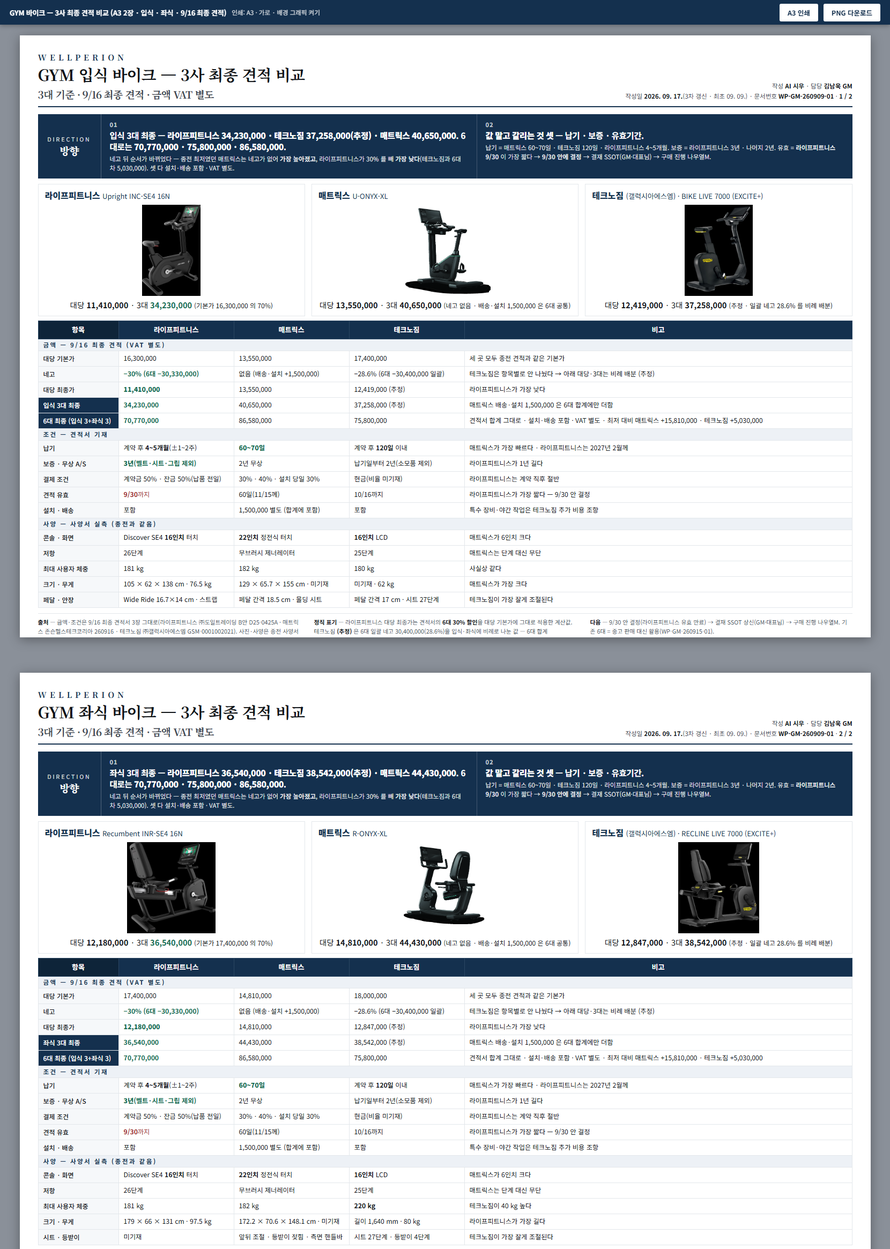
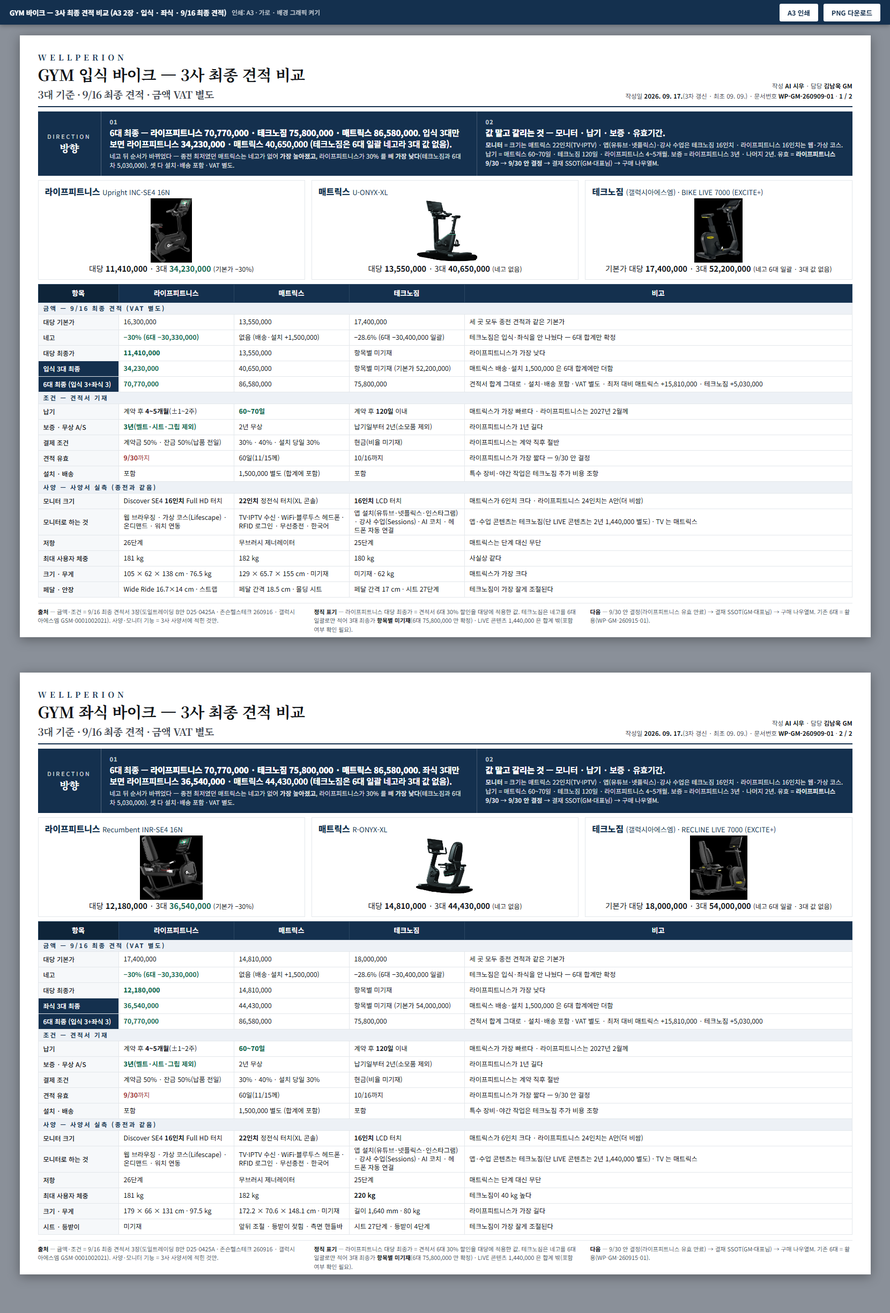
[시우] 바이크 3사 최종 견적 A3 — 추정값 제거(테크노짐 3대는 항목별 미기재 · 6대만 확정) · 모니터 크기·기능 2행 + 방향에 모니터 (GM 지적 2026-09-17)

diff --git a/3. 웰페리온 가이드/coo/chairman/260909_GYM바이크_3사비교_A3.html b/3. 웰페리온 가이드/coo/chairman/260909_GYM바이크_3사비교_A3.html
@@ -130,29 +130,29 @@
     </div>
   </div>
 
-  <div class="ask">
+  <div class="ask" style="margin-top:8px">
     <div class="lb"><span>DIRECTION</span><strong>방향</strong></div>
     <div class="items">
-      <div class="it"><div class="n">01</div><div><div class="q">입식 3대 최종 — <b>라이프피트니스 34,230,000 · 테크노짐 37,258,000(추정) · 매트릭스 40,650,000</b>. 6대로는 <b>70,770,000 · 75,800,000 · 86,580,000</b>.</div><div class="d">네고 뒤 순서가 바뀌었다 — 종전 최저였던 매트릭스는 네고가 없어 <b>가장 높아졌고</b>, 라이프피트니스가 30% 를 빼 <b>가장 낮다</b>(테크노짐과 6대 차 5,030,000). 셋 다 설치·배송 포함 · VAT 별도.</div></div></div>
-      <div class="it"><div class="n">02</div><div><div class="q"><b>값 말고 갈리는 것 셋</b> — 납기 · 보증 · 유효기간.</div><div class="d">납기 = 매트릭스 60~70일 · 테크노짐 120일 · 라이프피트니스 4~5개월. 보증 = 라이프피트니스 3년 · 나머지 2년. 유효 = <b>라이프피트니스 9/30</b> 이 가장 짧다 → <b>9/30 안에 결정</b> → 결재 SSOT(GM·대표님) → 구매 진행 나우열M.</div></div></div>
+      <div class="it"><div class="n">01</div><div><div class="q">6대 최종 — <b>라이프피트니스 70,770,000 · 테크노짐 75,800,000 · 매트릭스 86,580,000</b>. 입식 3대만 보면 라이프피트니스 <b>34,230,000</b> · 매트릭스 40,650,000 (테크노짐은 6대 일괄 네고라 3대 값 없음).</div><div class="d">네고 뒤 순서가 바뀌었다 — 종전 최저였던 매트릭스는 네고가 없어 <b>가장 높아졌고</b>, 라이프피트니스가 30% 를 빼 <b>가장 낮다</b>(테크노짐과 6대 차 5,030,000). 셋 다 설치·배송 포함 · VAT 별도.</div></div></div>
+      <div class="it"><div class="n">02</div><div><div class="q"><b>값 말고 갈리는 것</b> — 모니터 · 납기 · 보증 · 유효기간.</div><div class="d"><b>모니터</b> = 크기는 매트릭스 22인치(TV·IPTV) · 앱(유튜브·넷플릭스)·강사 수업은 테크노짐 16인치 · 라이프피트니스 16인치는 웹·가상 코스. 납기 = 매트릭스 60~70일 · 테크노짐 120일 · 라이프피트니스 4~5개월. 보증 = 라이프피트니스 3년 · 나머지 2년. 유효 = <b>라이프피트니스 9/30</b> → <b>9/30 안 결정</b> → 결재 SSOT(GM·대표님) → 구매 나우열M.</div></div></div>
     </div>
   </div>
 
-  <div style="display:flex; gap:12px; margin-top:10px; height:250px">
+  <div style="display:flex; gap:12px; margin-top:8px; height:186px">
       <div style="flex:1; min-width:0; border:1px solid var(--line); padding:8px 12px 10px; display:flex; flex-direction:column">
         <div style="font-weight:800; font-size:16px; color:var(--navy)">라이프피트니스 <span style="font-weight:400; color:var(--dim); font-size:13px">Upright INC-SE4 16N</span></div>
-        <div style="flex:1; min-height:0; display:flex; align-items:center; justify-content:center; margin:6px 0"><img src="assets/bike/lf_p3_3.png" alt="라이프피트니스" style="max-width:100%; max-height:170px; object-fit:contain"></div>
-        <div style="text-align:center; font-size:14.5px">대당 <b>11,410,000</b> · 3대 <b class="good">34,230,000</b> <span style="color:var(--dim);font-size:12px">(기본가 16,300,000 의 70%)</span></div>
+        <div style="flex:1; min-height:0; display:flex; align-items:center; justify-content:center; margin:6px 0"><img src="assets/bike/lf_p3_3.png" alt="라이프피트니스" style="max-width:100%; max-height:120px; object-fit:contain"></div>
+        <div style="text-align:center; font-size:14.5px">대당 <b>11,410,000</b> · 3대 <b class="good">34,230,000</b> <span style="color:var(--dim);font-size:12px">(기본가 −30%)</span></div>
       </div>
       <div style="flex:1; min-width:0; border:1px solid var(--line); padding:8px 12px 10px; display:flex; flex-direction:column">
         <div style="font-weight:800; font-size:16px; color:var(--navy)">매트릭스 <span style="font-weight:400; color:var(--dim); font-size:13px">U-ONYX-XL</span></div>
-        <div style="flex:1; min-height:0; display:flex; align-items:center; justify-content:center; margin:6px 0"><img src="assets/bike/matrix_p7_6.png" alt="매트릭스" style="max-width:100%; max-height:170px; object-fit:contain"></div>
-        <div style="text-align:center; font-size:14.5px">대당 <b>13,550,000</b> · 3대 <b>40,650,000</b> <span style="color:var(--dim);font-size:12px">(네고 없음 · 배송·설치 1,500,000 은 6대 공통)</span></div>
+        <div style="flex:1; min-height:0; display:flex; align-items:center; justify-content:center; margin:6px 0"><img src="assets/bike/matrix_p7_6.png" alt="매트릭스" style="max-width:100%; max-height:120px; object-fit:contain"></div>
+        <div style="text-align:center; font-size:14.5px">대당 <b>13,550,000</b> · 3대 <b>40,650,000</b> <span style="color:var(--dim);font-size:12px">(네고 없음)</span></div>
       </div>
       <div style="flex:1; min-width:0; border:1px solid var(--line); padding:8px 12px 10px; display:flex; flex-direction:column">
         <div style="font-weight:800; font-size:16px; color:var(--navy)">테크노짐 <span style="font-weight:400; color:var(--dim); font-size:13px">(갤럭시아에스엠) · BIKE LIVE 7000 (EXCITE+)</span></div>
-        <div style="flex:1; min-height:0; display:flex; align-items:center; justify-content:center; margin:6px 0"><img src="assets/bike/techno_p3_7.png" alt="테크노짐" style="max-width:100%; max-height:170px; object-fit:contain"></div>
-        <div style="text-align:center; font-size:14.5px">대당 <b>12,419,000</b> · 3대 <b>37,258,000</b> <span style="color:var(--dim);font-size:12px">(추정 · 일괄 네고 28.6% 를 비례 배분)</span></div>
+        <div style="flex:1; min-height:0; display:flex; align-items:center; justify-content:center; margin:6px 0"><img src="assets/bike/techno_p3_7.png" alt="테크노짐" style="max-width:100%; max-height:120px; object-fit:contain"></div>
+        <div style="text-align:center; font-size:14.5px">기본가 대당 <b>17,400,000</b> · 3대 <b>52,200,000</b> <span style="color:var(--dim);font-size:12px">(네고 6대 일괄 · 3대 값 없음)</span></div>
       </div>
   </div>
 
@@ -162,9 +162,9 @@
       <tbody>
         <tr class="grp"><td colspan="5">금액 — 9/16 최종 견적 (VAT 별도)</td></tr>
         <tr><td class="k">대당 기본가</td><td class="c">16,300,000</td><td class="c">13,550,000</td><td class="c">17,400,000</td><td>세 곳 모두 종전 견적과 같은 기본가</td></tr>
-        <tr><td class="k">네고</td><td class="c good">−30% (6대 −30,330,000)</td><td class="c">없음 (배송·설치 +1,500,000)</td><td class="c">−28.6% (6대 −30,400,000 일괄)</td><td>테크노짐은 항목별로 안 나눴다 → 아래 대당·3대는 비례 배분 (추정)</td></tr>
-        <tr><td class="k">대당 최종가</td><td class="c good"><b>11,410,000</b></td><td class="c">13,550,000</td><td class="c">12,419,000 (추정)</td><td>라이프피트니스가 가장 낮다</td></tr>
-        <tr class="total"><td class="k" style="background:var(--navy);color:#fff">입식 3대 최종</td><td class="n good">34,230,000</td><td class="n">40,650,000</td><td class="n">37,258,000 (추정)</td><td>매트릭스 배송·설치 1,500,000 은 6대 합계에만 더함</td></tr>
+        <tr><td class="k">네고</td><td class="c good">−30% (6대 −30,330,000)</td><td class="c">없음 (배송·설치 +1,500,000)</td><td class="c">−28.6% (6대 −30,400,000 일괄)</td><td>테크노짐은 입식·좌식을 안 나눴다 — 6대 합계만 확정</td></tr>
+        <tr><td class="k">대당 최종가</td><td class="c good"><b>11,410,000</b></td><td class="c">13,550,000</td><td class="c">항목별 미기재</td><td>라이프피트니스가 가장 낮다</td></tr>
+        <tr class="total"><td class="k" style="background:var(--navy);color:#fff">입식 3대 최종</td><td class="n good">34,230,000</td><td class="n">40,650,000</td><td class="n">항목별 미기재 (기본가 52,200,000)</td><td>매트릭스 배송·설치 1,500,000 은 6대 합계에만 더함</td></tr>
         <tr class="total"><td class="k" style="background:var(--navy);color:#fff">6대 최종 (입식 3+좌식 3)</td><td class="n good">70,770,000</td><td class="n">86,580,000</td><td class="n">75,800,000</td><td>견적서 합계 그대로 · 설치·배송 포함 · VAT 별도 · 최저 대비 매트릭스 +15,810,000 · 테크노짐 +5,030,000</td></tr>
         <tr class="grp"><td colspan="5">조건 — 견적서 기재</td></tr>
         <tr><td class="k">납기</td><td class="c">계약 후 <b>4~5개월</b>(±1~2주)</td><td class="c good"><b>60~70일</b></td><td class="c">계약 후 <b>120일</b> 이내</td><td>매트릭스가 가장 빠르다 · 라이프피트니스는 2027년 2월께</td></tr>
@@ -173,15 +173,15 @@
         <tr><td class="k">견적 유효</td><td class="c" style="color:#9E2A2A"><b>9/30</b>까지</td><td class="c">60일(11/15께)</td><td class="c">10/16까지</td><td>라이프피트니스가 가장 짧다 — 9/30 안 결정</td></tr>
         <tr><td class="k">설치 · 배송</td><td class="c">포함</td><td class="c">1,500,000 별도 (합계에 포함)</td><td class="c">포함</td><td>특수 장비·야간 작업은 테크노짐 추가 비용 조항</td></tr>
         <tr class="grp"><td colspan="5">사양 — 사양서 실측 (종전과 같음)</td></tr>
-        <tr><td class="k">콘솔 · 화면</td><td class="c">Discover SE4 <b>16인치</b> 터치</td><td class="c"><b>22인치</b> 정전식 터치</td><td class="c"><b>16인치</b> LCD</td><td>매트릭스가 6인치 크다</td></tr><tr><td class="k">저항</td><td class="c">26단계</td><td class="c">무브러시 제너레이터</td><td class="c">25단계</td><td>매트릭스는 단계 대신 무단</td></tr><tr><td class="k">최대 사용자 체중</td><td class="c">181 kg</td><td class="c">182 kg</td><td class="c">180 kg</td><td>사실상 같다</td></tr><tr><td class="k">크기 · 무게</td><td class="c">105 × 62 × 138 cm · 76.5 kg</td><td class="c">129 × 65.7 × 155 cm · 미기재</td><td class="c">미기재 · 62 kg</td><td>매트릭스가 가장 크다</td></tr><tr><td class="k">페달 · 안장</td><td class="c">Wide Ride 16.7×14 cm · 스트랩</td><td class="c">페달 간격 18.5 cm · 몰딩 시트</td><td class="c">페달 간격 17 cm · 시트 27단계</td><td>테크노짐이 가장 잘게 조절된다</td></tr>
+        <tr><td class="k">모니터 크기</td><td class="c">Discover SE4 <b>16인치</b> Full HD 터치</td><td class="c"><b>22인치</b> 정전식 터치(XL 콘솔)</td><td class="c"><b>16인치</b> LCD 터치</td><td>매트릭스가 6인치 크다 · 라이프피트니스 24인치는 A안(더 비쌈)</td></tr><tr><td class="k">모니터로 하는 것</td><td class="c">웹 브라우징 · 가상 코스(Lifescape) · 온디맨드 · 워치 연동</td><td class="c">TV·IPTV 수신 · WiFi·블루투스 헤드폰 · RFID 로그인 · 무선충전 · 한국어</td><td class="c">앱 설치(유튜브·넷플릭스·인스타그램) · 강사 수업(Sessions) · AI 코치 · 헤드폰 자동 연결</td><td>앱·수업 콘텐츠는 테크노짐(단 LIVE 콘텐츠는 2년 1,440,000 별도) · TV 는 매트릭스</td></tr><tr><td class="k">저항</td><td class="c">26단계</td><td class="c">무브러시 제너레이터</td><td class="c">25단계</td><td>매트릭스는 단계 대신 무단</td></tr><tr><td class="k">최대 사용자 체중</td><td class="c">181 kg</td><td class="c">182 kg</td><td class="c">180 kg</td><td>사실상 같다</td></tr><tr><td class="k">크기 · 무게</td><td class="c">105 × 62 × 138 cm · 76.5 kg</td><td class="c">129 × 65.7 × 155 cm · 미기재</td><td class="c">미기재 · 62 kg</td><td>매트릭스가 가장 크다</td></tr><tr><td class="k">페달 · 안장</td><td class="c">Wide Ride 16.7×14 cm · 스트랩</td><td class="c">페달 간격 18.5 cm · 몰딩 시트</td><td class="c">페달 간격 17 cm · 시트 27단계</td><td>테크노짐이 가장 잘게 조절된다</td></tr>
       </tbody>
     </table>
   </div>
 
   <div class="foot">
-    <div><b>출처</b> — 금액·조건은 9/16 최종 견적서 3장 그대로(라이프피트니스 ㈜도일트레이딩 B안 D25-0425A · 매트릭스 존슨헬스테크코리아 260916 · 테크노짐 ㈜갤럭시아에스엠 GSM-0001002021). 사진·사양은 종전 사양서 PDF.</div>
-    <div><b>정직 표기</b> — 라이프피트니스 대당 최종가는 견적서의 <b>6대 30% 할인</b>을 대당 기본가에 그대로 적용한 계산값. 테크노짐 <b>(추정)</b> 은 6대 일괄 네고 30,400,000(28.6%)을 입식·좌식에 비례로 나눈 값 — 6대 합계 75,800,000 만 확정. 테크노짐 견적엔 LIVE PREMIUM CONTENT 1,440,000(6대×2년)이 별도 줄로 있고 합계엔 안 들어 있다(포함 여부 확인 필요).</div>
-    <div><b>다음</b> — 9/30 안 결정(라이프피트니스 유효 만료) → 결재 SSOT 상신(GM·대표님) → 구매 진행 나우열M. 기존 6대 = 중고 판매 대신 활용(WP-GM-260915-01).</div>
+    <div><b>출처</b> — 금액·조건 = 9/16 최종 견적서 3장(도일트레이딩 B안 D25-0425A · 존슨헬스테크 260916 · 갤럭시아에스엠 GSM-0001002021). 사양·모니터 기능 = 3사 사양서에 적힌 것만.</div>
+    <div><b>정직 표기</b> — 라이프피트니스 대당 최종가 = 견적서 6대 30% 할인을 대당에 적용한 값. 테크노짐은 네고를 6대 일괄로만 적어 3대 최종가 <b>항목별 미기재</b>(6대 75,800,000 만 확정) · LIVE 콘텐츠 1,440,000 은 합계 밖(포함 여부 확인 필요).</div>
+    <div><b>다음</b> — 9/30 안 결정(라이프피트니스 유효 만료) → 결재 SSOT(GM·대표님) → 구매 나우열M. 기존 6대 = 활용(WP-GM-260915-01).</div>
   </div>
 </div>
 
@@ -197,29 +197,29 @@
     </div>
   </div>
 
-  <div class="ask">
+  <div class="ask" style="margin-top:8px">
     <div class="lb"><span>DIRECTION</span><strong>방향</strong></div>
     <div class="items">
-      <div class="it"><div class="n">01</div><div><div class="q">좌식 3대 최종 — <b>라이프피트니스 36,540,000 · 테크노짐 38,542,000(추정) · 매트릭스 44,430,000</b>. 6대로는 <b>70,770,000 · 75,800,000 · 86,580,000</b>.</div><div class="d">네고 뒤 순서가 바뀌었다 — 종전 최저였던 매트릭스는 네고가 없어 <b>가장 높아졌고</b>, 라이프피트니스가 30% 를 빼 <b>가장 낮다</b>(테크노짐과 6대 차 5,030,000). 셋 다 설치·배송 포함 · VAT 별도.</div></div></div>
-      <div class="it"><div class="n">02</div><div><div class="q"><b>값 말고 갈리는 것 셋</b> — 납기 · 보증 · 유효기간.</div><div class="d">납기 = 매트릭스 60~70일 · 테크노짐 120일 · 라이프피트니스 4~5개월. 보증 = 라이프피트니스 3년 · 나머지 2년. 유효 = <b>라이프피트니스 9/30</b> 이 가장 짧다 → <b>9/30 안에 결정</b> → 결재 SSOT(GM·대표님) → 구매 진행 나우열M.</div></div></div>
+      <div class="it"><div class="n">01</div><div><div class="q">6대 최종 — <b>라이프피트니스 70,770,000 · 테크노짐 75,800,000 · 매트릭스 86,580,000</b>. 좌식 3대만 보면 라이프피트니스 <b>36,540,000</b> · 매트릭스 44,430,000 (테크노짐은 6대 일괄 네고라 3대 값 없음).</div><div class="d">네고 뒤 순서가 바뀌었다 — 종전 최저였던 매트릭스는 네고가 없어 <b>가장 높아졌고</b>, 라이프피트니스가 30% 를 빼 <b>가장 낮다</b>(테크노짐과 6대 차 5,030,000). 셋 다 설치·배송 포함 · VAT 별도.</div></div></div>
+      <div class="it"><div class="n">02</div><div><div class="q"><b>값 말고 갈리는 것</b> — 모니터 · 납기 · 보증 · 유효기간.</div><div class="d"><b>모니터</b> = 크기는 매트릭스 22인치(TV·IPTV) · 앱(유튜브·넷플릭스)·강사 수업은 테크노짐 16인치 · 라이프피트니스 16인치는 웹·가상 코스. 납기 = 매트릭스 60~70일 · 테크노짐 120일 · 라이프피트니스 4~5개월. 보증 = 라이프피트니스 3년 · 나머지 2년. 유효 = <b>라이프피트니스 9/30</b> → <b>9/30 안 결정</b> → 결재 SSOT(GM·대표님) → 구매 나우열M.</div></div></div>
     </div>
   </div>
 
-  <div style="display:flex; gap:12px; margin-top:10px; height:250px">
+  <div style="display:flex; gap:12px; margin-top:8px; height:186px">
       <div style="flex:1; min-width:0; border:1px solid var(--line); padding:8px 12px 10px; display:flex; flex-direction:column">
         <div style="font-weight:800; font-size:16px; color:var(--navy)">라이프피트니스 <span style="font-weight:400; color:var(--dim); font-size:13px">Recumbent INR-SE4 16N</span></div>
-        <div style="flex:1; min-height:0; display:flex; align-items:center; justify-content:center; margin:6px 0"><img src="assets/bike/lf_p4_3.png" alt="라이프피트니스" style="max-width:100%; max-height:170px; object-fit:contain"></div>
-        <div style="text-align:center; font-size:14.5px">대당 <b>12,180,000</b> · 3대 <b class="good">36,540,000</b> <span style="color:var(--dim);font-size:12px">(기본가 17,400,000 의 70%)</span></div>
+        <div style="flex:1; min-height:0; display:flex; align-items:center; justify-content:center; margin:6px 0"><img src="assets/bike/lf_p4_3.png" alt="라이프피트니스" style="max-width:100%; max-height:120px; object-fit:contain"></div>
+        <div style="text-align:center; font-size:14.5px">대당 <b>12,180,000</b> · 3대 <b class="good">36,540,000</b> <span style="color:var(--dim);font-size:12px">(기본가 −30%)</span></div>
       </div>
       <div style="flex:1; min-width:0; border:1px solid var(--line); padding:8px 12px 10px; display:flex; flex-direction:column">
         <div style="font-weight:800; font-size:16px; color:var(--navy)">매트릭스 <span style="font-weight:400; color:var(--dim); font-size:13px">R-ONYX-XL</span></div>
-        <div style="flex:1; min-height:0; display:flex; align-items:center; justify-content:center; margin:6px 0"><img src="assets/bike/matrix_p9_3.png" alt="매트릭스" style="max-width:100%; max-height:170px; object-fit:contain"></div>
-        <div style="text-align:center; font-size:14.5px">대당 <b>14,810,000</b> · 3대 <b>44,430,000</b> <span style="color:var(--dim);font-size:12px">(네고 없음 · 배송·설치 1,500,000 은 6대 공통)</span></div>
+        <div style="flex:1; min-height:0; display:flex; align-items:center; justify-content:center; margin:6px 0"><img src="assets/bike/matrix_p9_3.png" alt="매트릭스" style="max-width:100%; max-height:120px; object-fit:contain"></div>
+        <div style="text-align:center; font-size:14.5px">대당 <b>14,810,000</b> · 3대 <b>44,430,000</b> <span style="color:var(--dim);font-size:12px">(네고 없음)</span></div>
       </div>
       <div style="flex:1; min-width:0; border:1px solid var(--line); padding:8px 12px 10px; display:flex; flex-direction:column">
         <div style="font-weight:800; font-size:16px; color:var(--navy)">테크노짐 <span style="font-weight:400; color:var(--dim); font-size:13px">(갤럭시아에스엠) · RECLINE LIVE 7000 (EXCITE+)</span></div>
-        <div style="flex:1; min-height:0; display:flex; align-items:center; justify-content:center; margin:6px 0"><img src="assets/bike/techno_p4_7.png" alt="테크노짐" style="max-width:100%; max-height:170px; object-fit:contain"></div>
-        <div style="text-align:center; font-size:14.5px">대당 <b>12,847,000</b> · 3대 <b>38,542,000</b> <span style="color:var(--dim);font-size:12px">(추정 · 일괄 네고 28.6% 를 비례 배분)</span></div>
+        <div style="flex:1; min-height:0; display:flex; align-items:center; justify-content:center; margin:6px 0"><img src="assets/bike/techno_p4_7.png" alt="테크노짐" style="max-width:100%; max-height:120px; object-fit:contain"></div>
+        <div style="text-align:center; font-size:14.5px">기본가 대당 <b>18,000,000</b> · 3대 <b>54,000,000</b> <span style="color:var(--dim);font-size:12px">(네고 6대 일괄 · 3대 값 없음)</span></div>
       </div>
   </div>
 
@@ -229,9 +229,9 @@
       <tbody>
         <tr class="grp"><td colspan="5">금액 — 9/16 최종 견적 (VAT 별도)</td></tr>
         <tr><td class="k">대당 기본가</td><td class="c">17,400,000</td><td class="c">14,810,000</td><td class="c">18,000,000</td><td>세 곳 모두 종전 견적과 같은 기본가</td></tr>
-        <tr><td class="k">네고</td><td class="c good">−30% (6대 −30,330,000)</td><td class="c">없음 (배송·설치 +1,500,000)</td><td class="c">−28.6% (6대 −30,400,000 일괄)</td><td>테크노짐은 항목별로 안 나눴다 → 아래 대당·3대는 비례 배분 (추정)</td></tr>
-        <tr><td class="k">대당 최종가</td><td class="c good"><b>12,180,000</b></td><td class="c">14,810,000</td><td class="c">12,847,000 (추정)</td><td>라이프피트니스가 가장 낮다</td></tr>
-        <tr class="total"><td class="k" style="background:var(--navy);color:#fff">좌식 3대 최종</td><td class="n good">36,540,000</td><td class="n">44,430,000</td><td class="n">38,542,000 (추정)</td><td>매트릭스 배송·설치 1,500,000 은 6대 합계에만 더함</td></tr>
+        <tr><td class="k">네고</td><td class="c good">−30% (6대 −30,330,000)</td><td class="c">없음 (배송·설치 +1,500,000)</td><td class="c">−28.6% (6대 −30,400,000 일괄)</td><td>테크노짐은 입식·좌식을 안 나눴다 — 6대 합계만 확정</td></tr>
+        <tr><td class="k">대당 최종가</td><td class="c good"><b>12,180,000</b></td><td class="c">14,810,000</td><td class="c">항목별 미기재</td><td>라이프피트니스가 가장 낮다</td></tr>
+        <tr class="total"><td class="k" style="background:var(--navy);color:#fff">좌식 3대 최종</td><td class="n good">36,540,000</td><td class="n">44,430,000</td><td class="n">항목별 미기재 (기본가 54,000,000)</td><td>매트릭스 배송·설치 1,500,000 은 6대 합계에만 더함</td></tr>
         <tr class="total"><td class="k" style="background:var(--navy);color:#fff">6대 최종 (입식 3+좌식 3)</td><td class="n good">70,770,000</td><td class="n">86,580,000</td><td class="n">75,800,000</td><td>견적서 합계 그대로 · 설치·배송 포함 · VAT 별도 · 최저 대비 매트릭스 +15,810,000 · 테크노짐 +5,030,000</td></tr>
         <tr class="grp"><td colspan="5">조건 — 견적서 기재</td></tr>
         <tr><td class="k">납기</td><td class="c">계약 후 <b>4~5개월</b>(±1~2주)</td><td class="c good"><b>60~70일</b></td><td class="c">계약 후 <b>120일</b> 이내</td><td>매트릭스가 가장 빠르다 · 라이프피트니스는 2027년 2월께</td></tr>
@@ -240,15 +240,15 @@
         <tr><td class="k">견적 유효</td><td class="c" style="color:#9E2A2A"><b>9/30</b>까지</td><td class="c">60일(11/15께)</td><td class="c">10/16까지</td><td>라이프피트니스가 가장 짧다 — 9/30 안 결정</td></tr>
         <tr><td class="k">설치 · 배송</td><td class="c">포함</td><td class="c">1,500,000 별도 (합계에 포함)</td><td class="c">포함</td><td>특수 장비·야간 작업은 테크노짐 추가 비용 조항</td></tr>
         <tr class="grp"><td colspan="5">사양 — 사양서 실측 (종전과 같음)</td></tr>
-        <tr><td class="k">콘솔 · 화면</td><td class="c">Discover SE4 <b>16인치</b> 터치</td><td class="c"><b>22인치</b> 정전식 터치</td><td class="c"><b>16인치</b> LCD</td><td>매트릭스가 6인치 크다</td></tr><tr><td class="k">저항</td><td class="c">26단계</td><td class="c">무브러시 제너레이터</td><td class="c">25단계</td><td>매트릭스는 단계 대신 무단</td></tr><tr><td class="k">최대 사용자 체중</td><td class="c">181 kg</td><td class="c">182 kg</td><td class="c"><b>220 kg</b></td><td>테크노짐이 40 kg 높다</td></tr><tr><td class="k">크기 · 무게</td><td class="c">179 × 66 × 131 cm · 97.5 kg</td><td class="c">172.2 × 70.6 × 148.1 cm · 미기재</td><td class="c">길이 1,640 mm · 80 kg</td><td>라이프피트니스가 가장 길다</td></tr><tr><td class="k">시트 · 등받이</td><td class="c">미기재</td><td class="c">앞뒤 조절 · 등받이 젖힘 · 측면 핸들바</td><td class="c">시트 27단계 · 등받이 4단계</td><td>테크노짐이 가장 잘게 조절된다</td></tr>
+        <tr><td class="k">모니터 크기</td><td class="c">Discover SE4 <b>16인치</b> Full HD 터치</td><td class="c"><b>22인치</b> 정전식 터치(XL 콘솔)</td><td class="c"><b>16인치</b> LCD 터치</td><td>매트릭스가 6인치 크다 · 라이프피트니스 24인치는 A안(더 비쌈)</td></tr><tr><td class="k">모니터로 하는 것</td><td class="c">웹 브라우징 · 가상 코스(Lifescape) · 온디맨드 · 워치 연동</td><td class="c">TV·IPTV 수신 · WiFi·블루투스 헤드폰 · RFID 로그인 · 무선충전 · 한국어</td><td class="c">앱 설치(유튜브·넷플릭스·인스타그램) · 강사 수업(Sessions) · AI 코치 · 헤드폰 자동 연결</td><td>앱·수업 콘텐츠는 테크노짐(단 LIVE 콘텐츠는 2년 1,440,000 별도) · TV 는 매트릭스</td></tr><tr><td class="k">저항</td><td class="c">26단계</td><td class="c">무브러시 제너레이터</td><td class="c">25단계</td><td>매트릭스는 단계 대신 무단</td></tr><tr><td class="k">최대 사용자 체중</td><td class="c">181 kg</td><td class="c">182 kg</td><td class="c"><b>220 kg</b></td><td>테크노짐이 40 kg 높다</td></tr><tr><td class="k">크기 · 무게</td><td class="c">179 × 66 × 131 cm · 97.5 kg</td><td class="c">172.2 × 70.6 × 148.1 cm · 미기재</td><td class="c">길이 1,640 mm · 80 kg</td><td>라이프피트니스가 가장 길다</td></tr><tr><td class="k">시트 · 등받이</td><td class="c">미기재</td><td class="c">앞뒤 조절 · 등받이 젖힘 · 측면 핸들바</td><td class="c">시트 27단계 · 등받이 4단계</td><td>테크노짐이 가장 잘게 조절된다</td></tr>
       </tbody>
     </table>
   </div>
 
   <div class="foot">
-    <div><b>출처</b> — 금액·조건은 9/16 최종 견적서 3장 그대로(라이프피트니스 ㈜도일트레이딩 B안 D25-0425A · 매트릭스 존슨헬스테크코리아 260916 · 테크노짐 ㈜갤럭시아에스엠 GSM-0001002021). 사진·사양은 종전 사양서 PDF.</div>
-    <div><b>정직 표기</b> — 라이프피트니스 대당 최종가는 견적서의 <b>6대 30% 할인</b>을 대당 기본가에 그대로 적용한 계산값. 테크노짐 <b>(추정)</b> 은 6대 일괄 네고 30,400,000(28.6%)을 입식·좌식에 비례로 나눈 값 — 6대 합계 75,800,000 만 확정. 테크노짐 견적엔 LIVE PREMIUM CONTENT 1,440,000(6대×2년)이 별도 줄로 있고 합계엔 안 들어 있다(포함 여부 확인 필요).</div>
-    <div><b>다음</b> — 9/30 안 결정(라이프피트니스 유효 만료) → 결재 SSOT 상신(GM·대표님) → 구매 진행 나우열M. 기존 6대 = 중고 판매 대신 활용(WP-GM-260915-01).</div>
+    <div><b>출처</b> — 금액·조건 = 9/16 최종 견적서 3장(도일트레이딩 B안 D25-0425A · 존슨헬스테크 260916 · 갤럭시아에스엠 GSM-0001002021). 사양·모니터 기능 = 3사 사양서에 적힌 것만.</div>
+    <div><b>정직 표기</b> — 라이프피트니스 대당 최종가 = 견적서 6대 30% 할인을 대당에 적용한 값. 테크노짐은 네고를 6대 일괄로만 적어 3대 최종가 <b>항목별 미기재</b>(6대 75,800,000 만 확정) · LIVE 콘텐츠 1,440,000 은 합계 밖(포함 여부 확인 필요).</div>
+    <div><b>다음</b> — 9/30 안 결정(라이프피트니스 유효 만료) → 결재 SSOT(GM·대표님) → 구매 나우열M. 기존 6대 = 활용(WP-GM-260915-01).</div>
   </div>
 </div>
 
